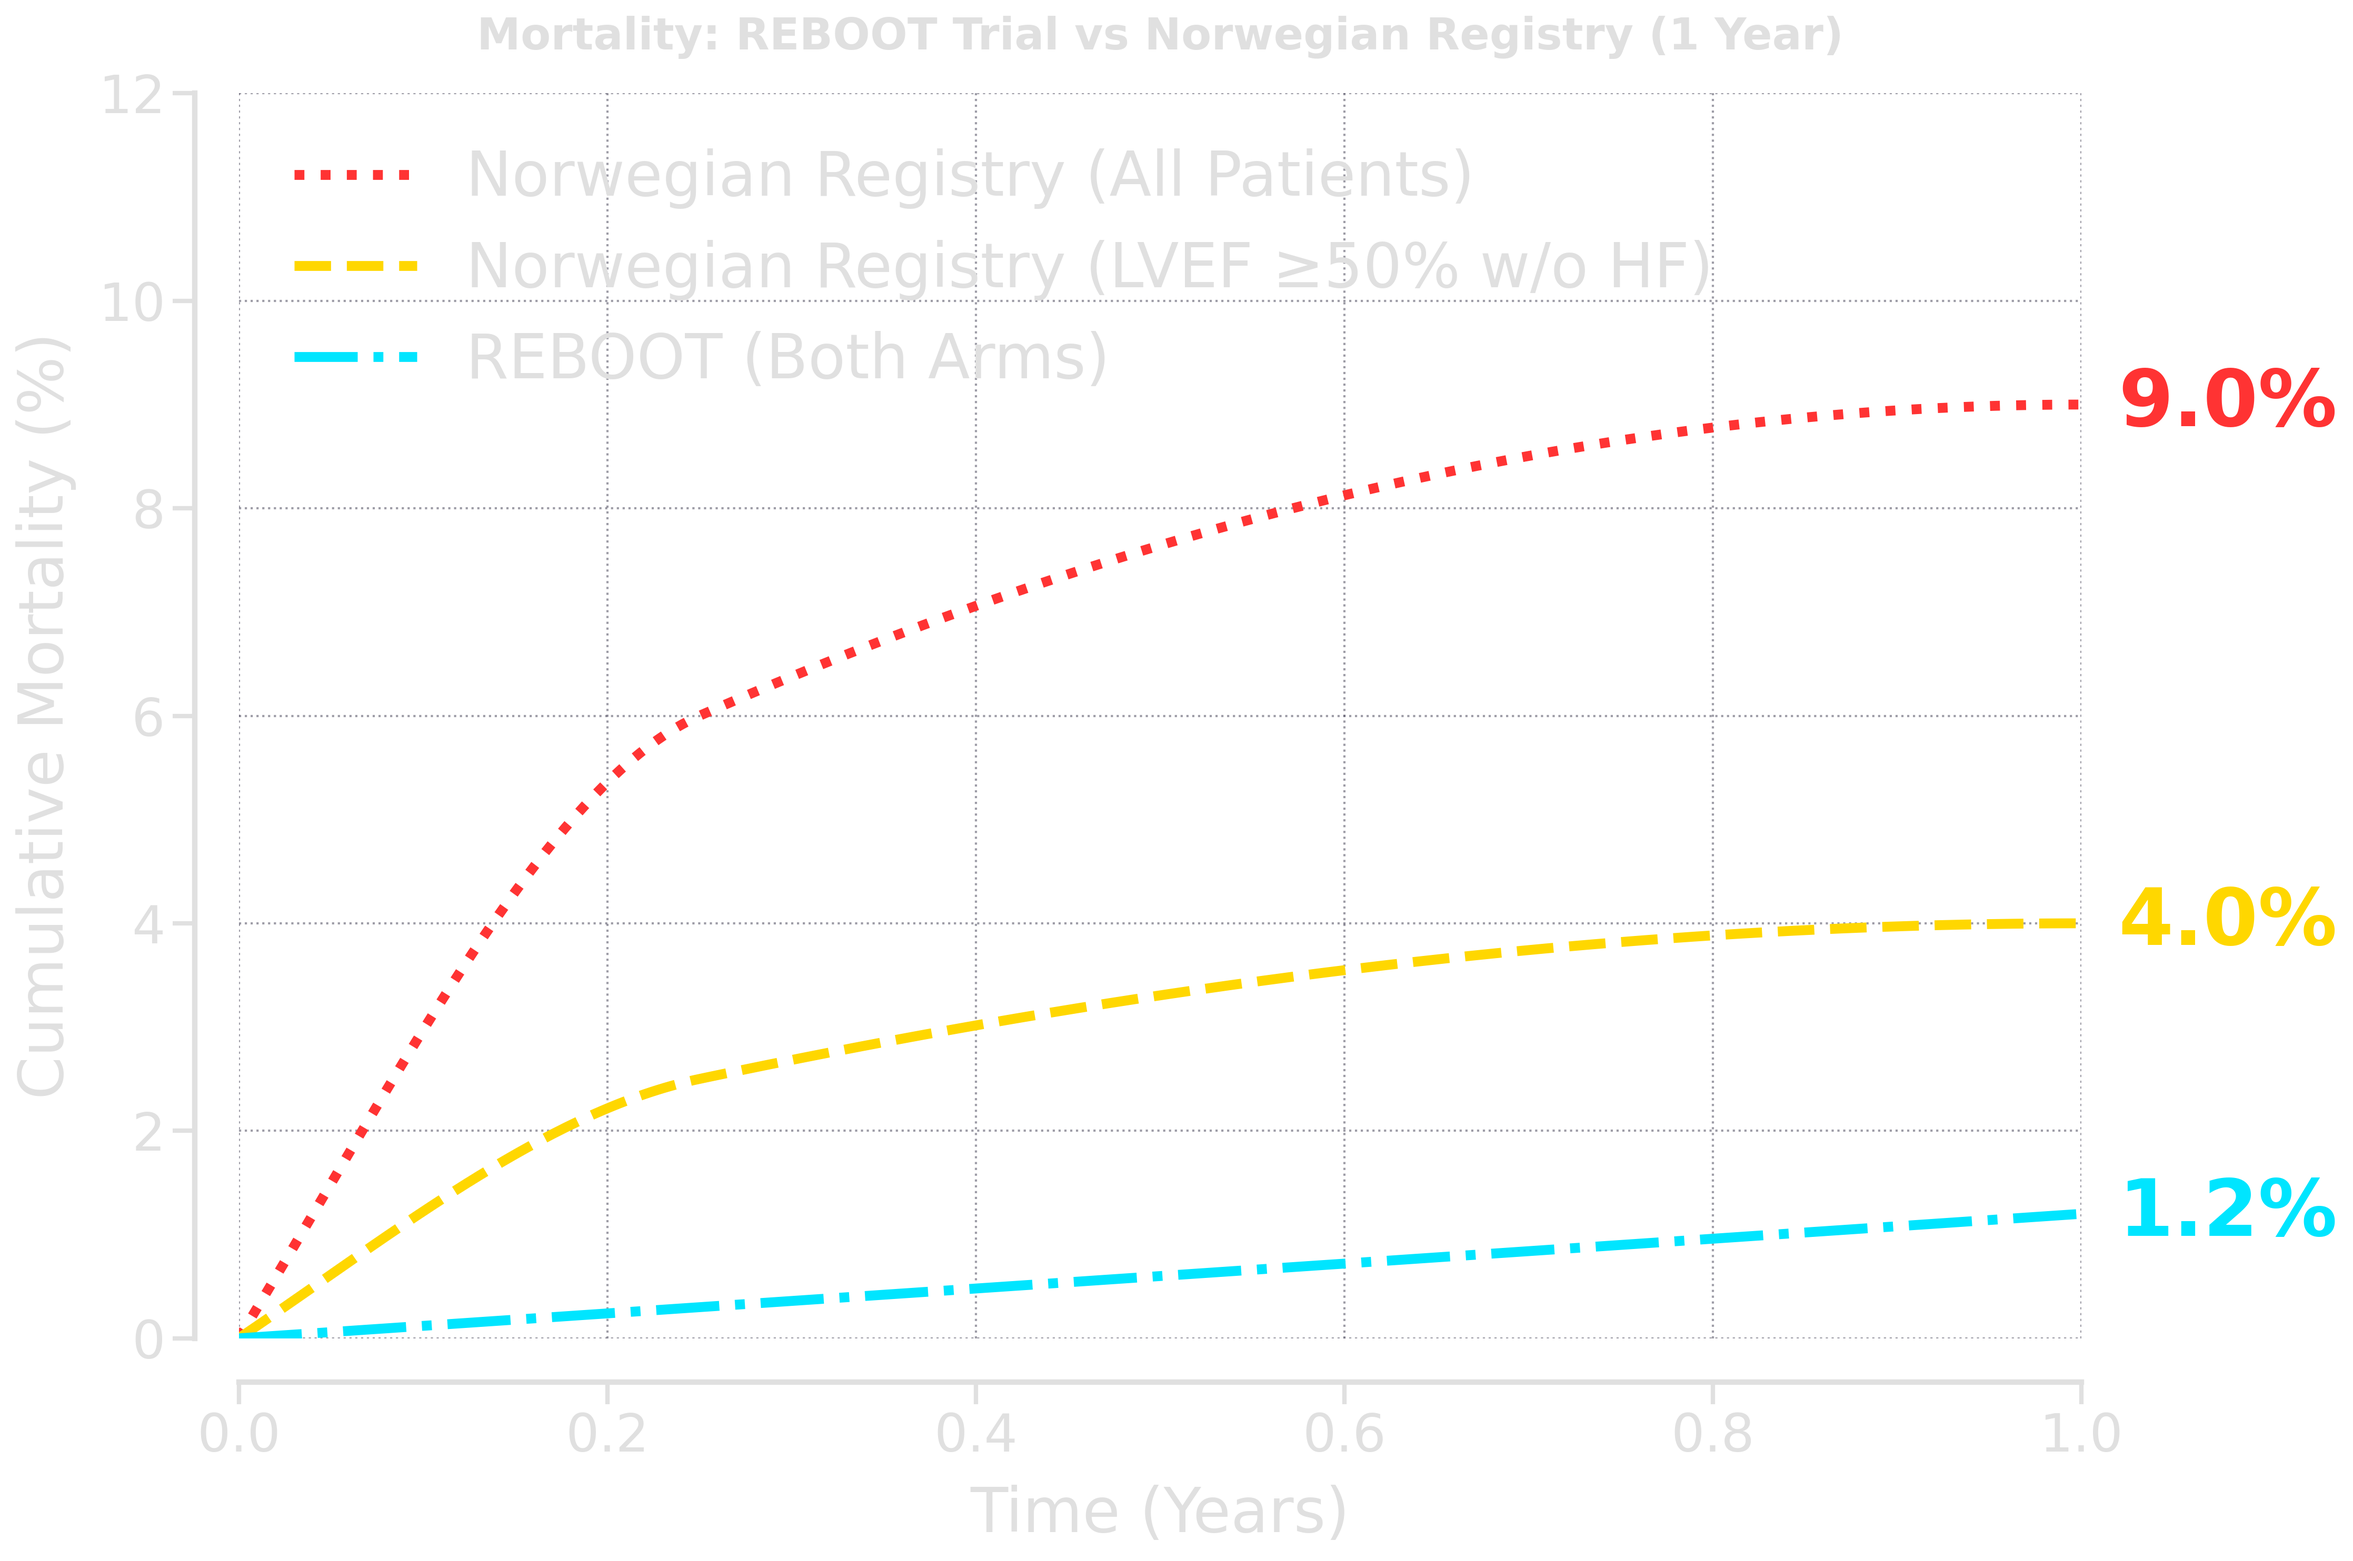
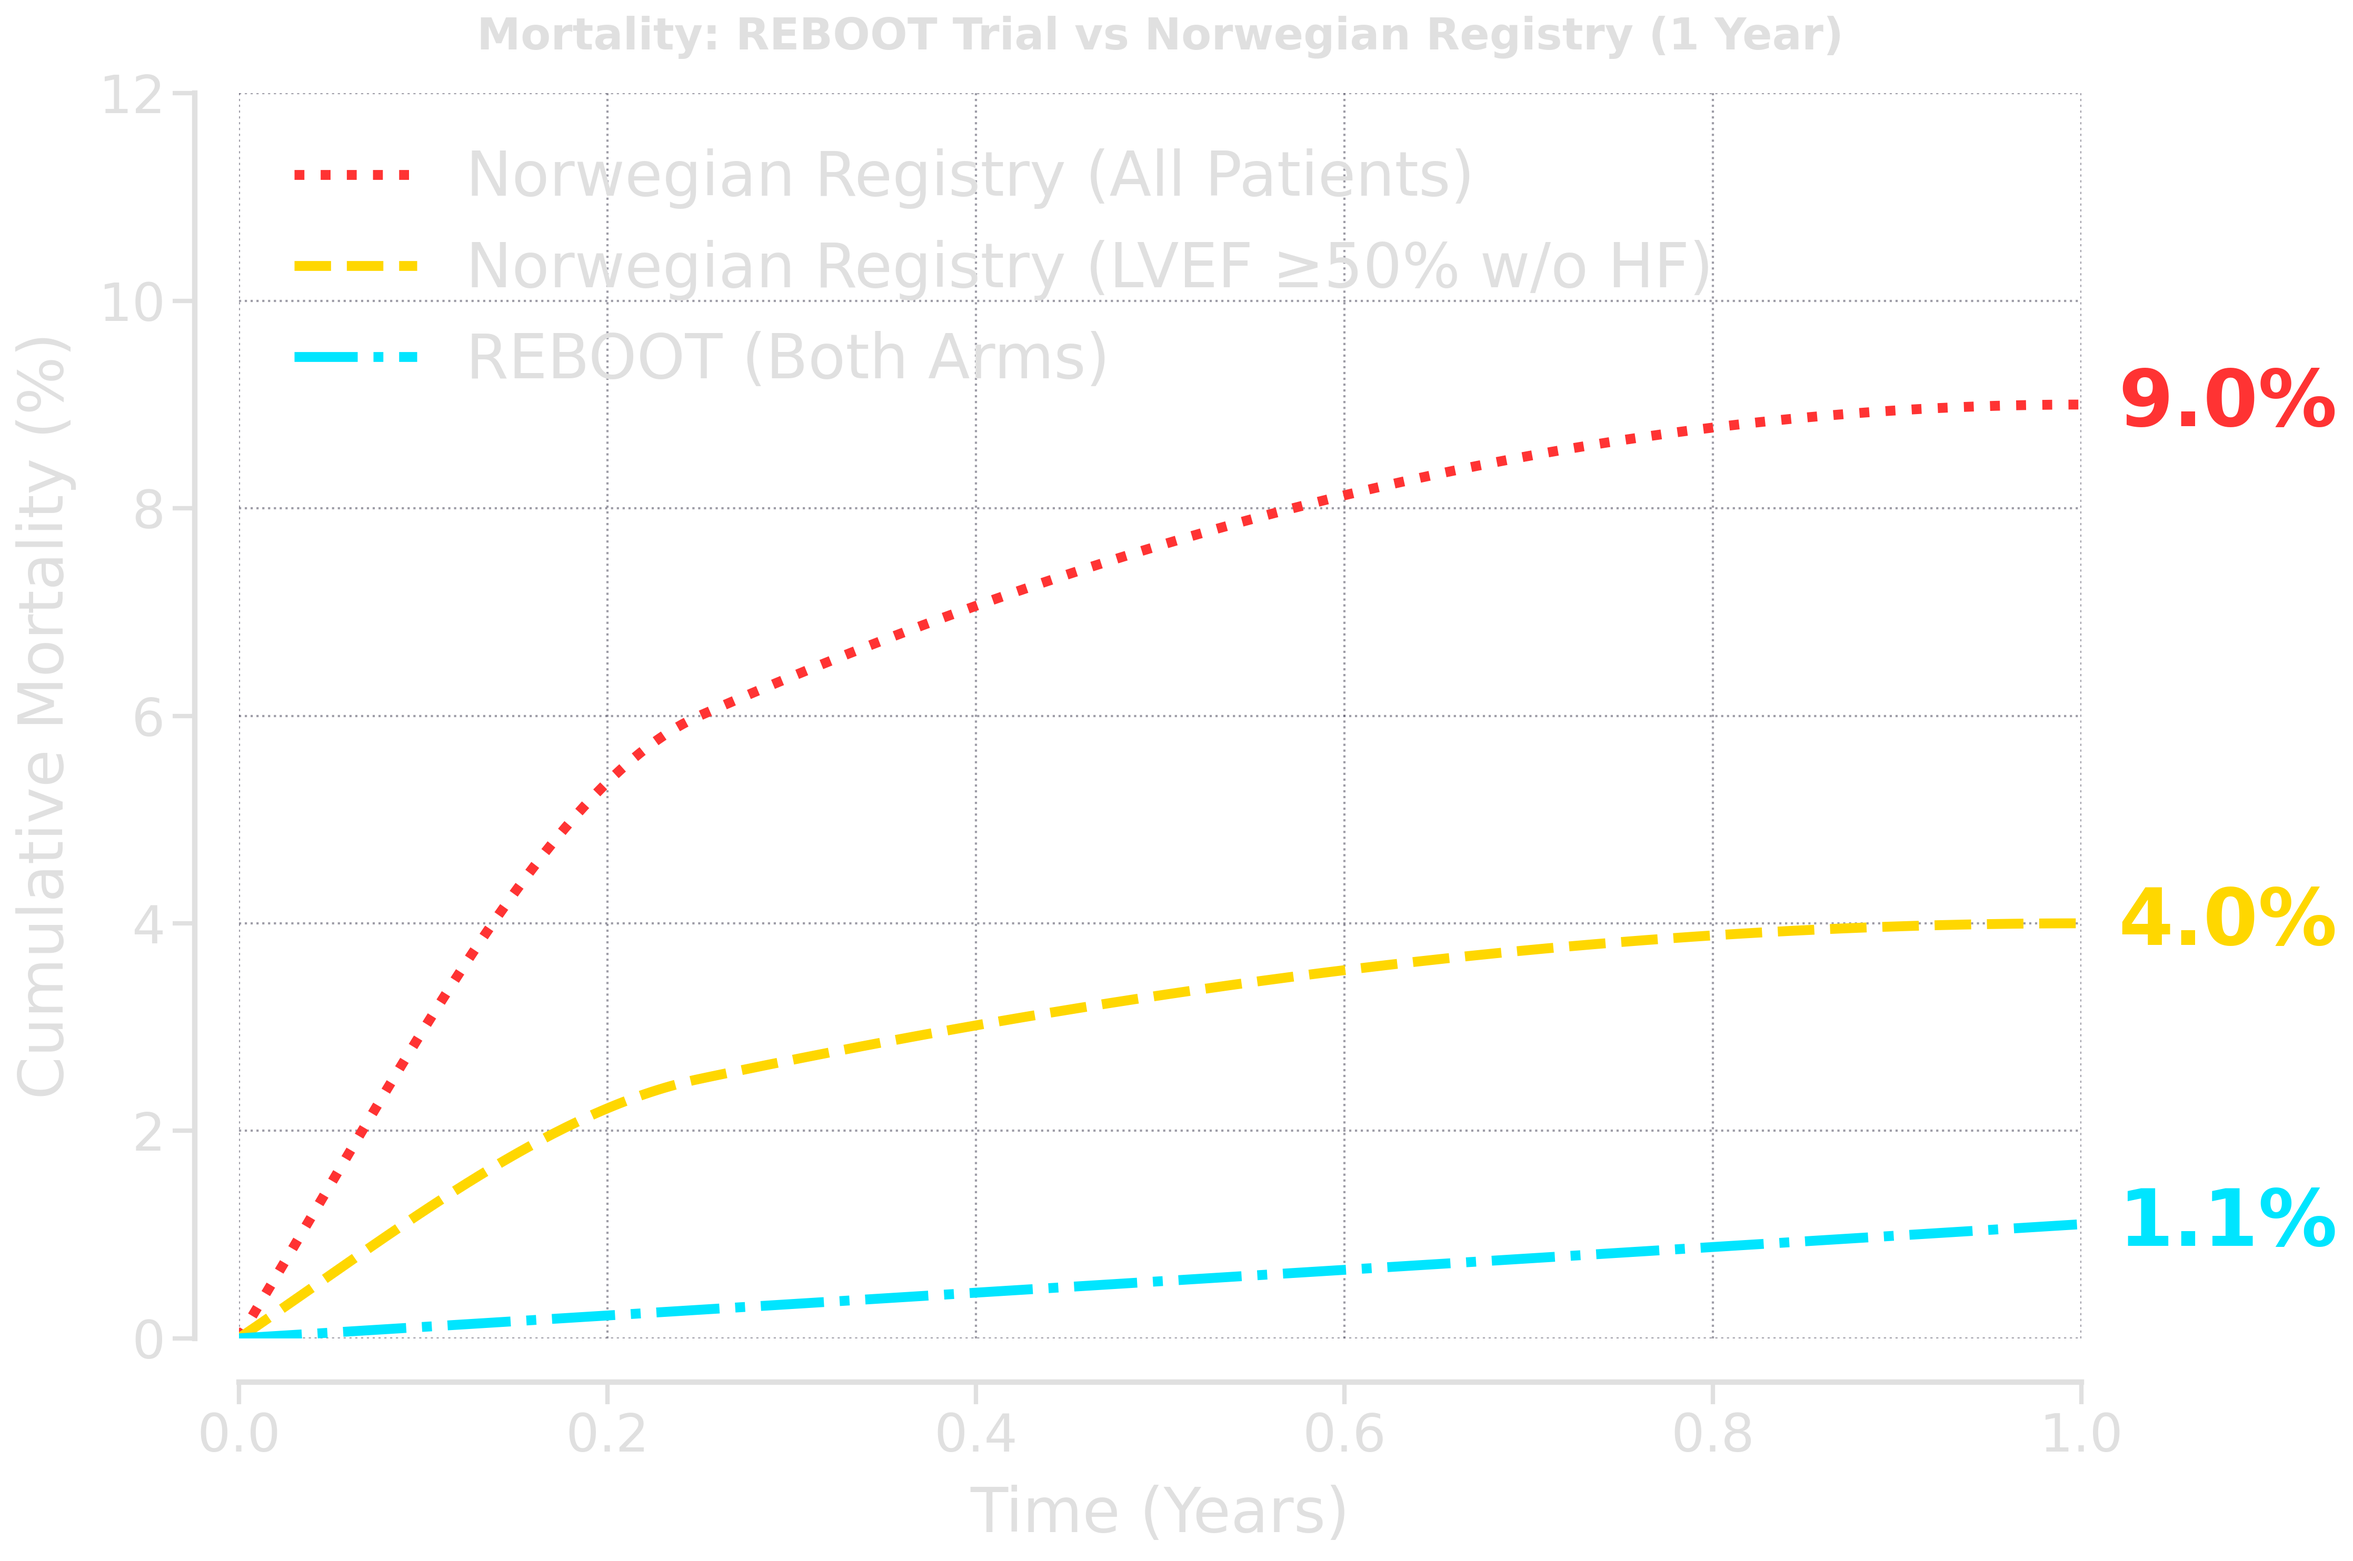
u

Changed region(s): [[0.6219, 0.7442, 0.9951, 0.8062], [0.3732, 0.8062, 0.6219, 0.8372]]

diff --git a/playground/Plots/BB_KM3.py b/playground/Plots/BB_KM3.py
@@ -10,7 +10,7 @@ from scipy.interpolate import PchipInterpolator
 # The original trial is a steady accumulation of events.
 # 0 -> 1.2% at 1 year.
 x_reboot = np.array([0, 1.0])
-y_reboot = np.array([0, 1.2]) 
+y_reboot = np.array([0, 1.1]) 
 
 # 2. Norwegian Registry (LVEF >= 50%)
 # "Early drop" means steep mortality rise in first 3 months.
